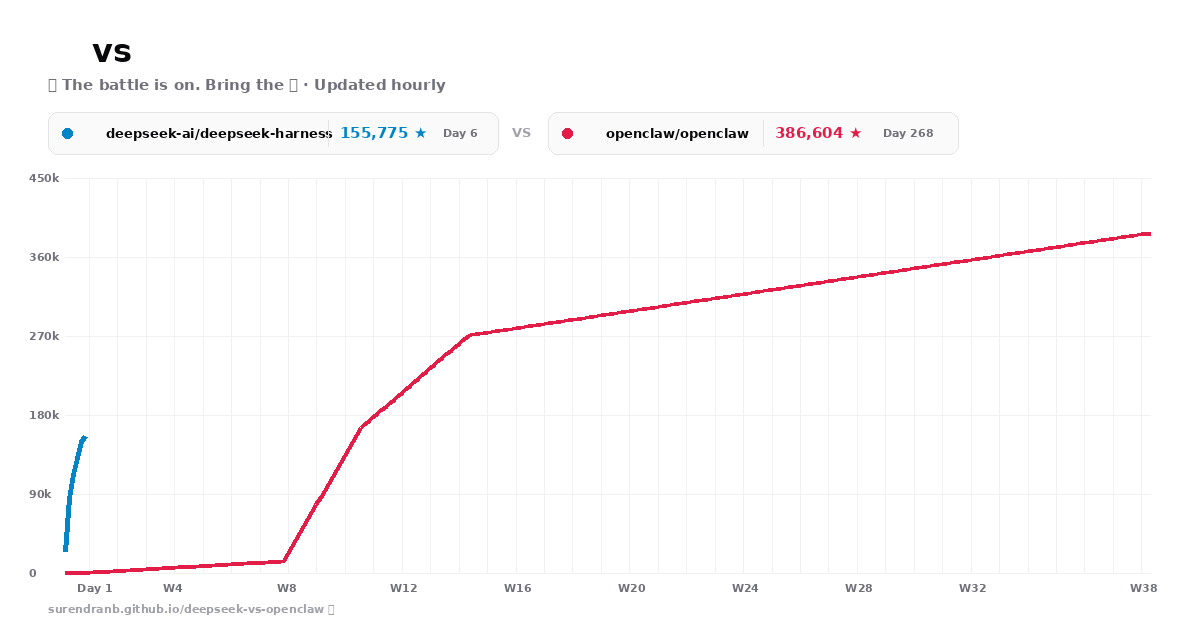
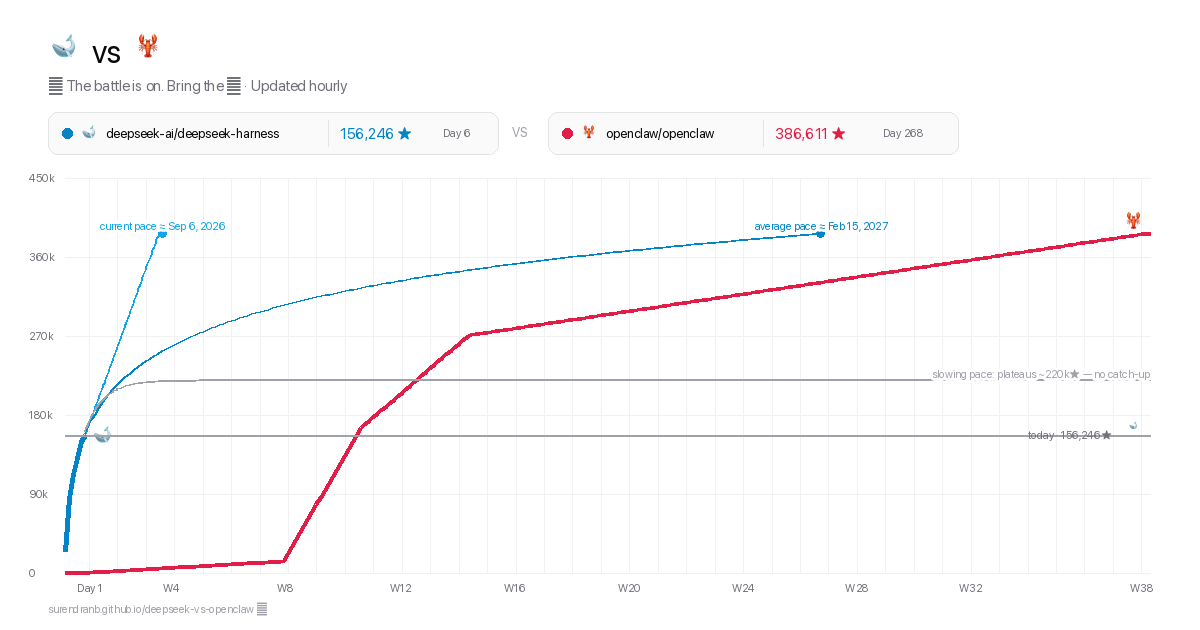
feat: mirror projection fan into og-image.png (shared projection math)

diff --git a/index.html b/index.html
@@ -10,7 +10,7 @@
   <meta property="og:type" content="website">
   <meta property="og:url" content="https://surendranb.github.io/deepseek-vs-openclaw/">
   <meta property="og:title" content="🐋 vs 🦞 · The Battle for GitHub's Fastest-Growing Repo">
-  <meta property="og:description" content="OpenClaw took 9 months to hit 386,604 stars. DeepSeek Harness crossed 155,775 ★ in just 6 days. Watch the race live 🍿">
+  <meta property="og:description" content="OpenClaw took 9 months to hit 386,611 stars. DeepSeek Harness crossed 156,246 ★ in just 6 days. Watch the race live 🍿">
   <meta property="og:image" content="https://surendranb.github.io/deepseek-vs-openclaw/og-image.png">
   <meta property="og:image:secure_url" content="https://surendranb.github.io/deepseek-vs-openclaw/og-image.png">
   <meta property="og:image:type" content="image/png">
@@ -21,7 +21,7 @@
   <!-- Twitter / X Metadata -->
   <meta name="twitter:card" content="summary_large_image">
   <meta name="twitter:title" content="🐋 vs 🦞 · The Battle for GitHub's Fastest-Growing Repo">
-  <meta name="twitter:description" content="OpenClaw took 9 months to hit 386,604 stars. DeepSeek Harness crossed 155,775 ★ in just 6 days. Watch the race live 🍿">
+  <meta name="twitter:description" content="OpenClaw took 9 months to hit 386,611 stars. DeepSeek Harness crossed 156,246 ★ in just 6 days. Watch the race live 🍿">
   <meta name="twitter:image" content="https://surendranb.github.io/deepseek-vs-openclaw/og-image.png">
 
   <link rel="preconnect" href="https://fonts.googleapis.com">

diff --git a/generate_chart.py b/generate_chart.py
@@ -161,6 +161,22 @@ def generate_og_image(data: dict) -> None:
                 pass
         return 0
 
+    def dashed_line(draw, pts, fill, width, dash=(4, 4)):
+        for (x1, y1), (x2, y2) in zip(pts, pts[1:]):
+            dx, dy = x2 - x1, y2 - y1
+            length = (dx * dx + dy * dy) ** 0.5
+            if length == 0:
+                continue
+            ux, uy = dx / length, dy / length
+            pos = 0.0
+            on = True
+            while pos < length:
+                seg = dash[0] if on else dash[1]
+                end = min(pos + seg, length)
+                draw.line([(x1 + ux * pos, y1 + uy * pos), (x1 + ux * end, y1 + uy * end)], fill=fill, width=width)
+                pos = end
+                on = not on
+
     # 1. Header Title & Subtitle
     draw_emoji('🐋', 48, 30, 36)
     draw.text((92, 32), 'vs', fill='#09090b', font=font_title)
@@ -234,6 +250,47 @@ def generate_og_image(data: dict) -> None:
     draw_emoji('🐋', dsh_last[0] + 6, dsh_last[1] - 12, 26)
     draw_emoji('🦞', claw_last[0] - 28, claw_last[1] - 24, 26)
 
+    # Whale reference line (today's level)
+    ref_y = cy + ch - (dsh[-1] / max_stars) * ch
+    dashed_line(draw, [(cx, ref_y), (cx + cw, ref_y)], '#a1a1aa', 2, (4, 4))
+    today_lbl = f'today · {dsh[-1]:,}★'
+    lbl_w = draw.textlength(today_lbl, font=font_small)
+    draw_emoji('🐋', cx + cw - 22, ref_y - 15, 12)
+    draw.text((cx + cw - 22 - 12 - lbl_w - 4, ref_y - 8), today_lbl, fill='#71717a', font=font_small)
+
+    # Projection fan: current / average / slowing pace (same math as chart.svg)
+    fan = projection(dsh, claw, data["repositories"]["deepseek_harness"]["created_at"])
+    best_slope, best_cross = fan["best_slope"], fan["best_cross"]
+    log_a, log_b = fan["log_a"], fan["log_b"]
+    exp_cross, sat_cap, sat_k, sat_cross = fan["exp_cross"], fan["sat_cap"], fan["sat_k"], fan["sat_cross"]
+    cross_date = fan["cross_date"]
+
+    def fan_pt(day_1based: int, val: float):
+        x = cx + ((day_1based - 1) / (max_days - 1)) * cw
+        y = cy + ch - (val / max_stars) * ch
+        return (min(x, cx + cw), y)
+
+    def draw_fan_label(x, y, text, color):
+        draw.text((x, y), text, fill=color, font=font_small, anchor='mm',
+                  stroke_width=3, stroke_fill=(255, 255, 255, 255))
+
+    red_y = cy + ch - (claw_stars / max_stars) * ch
+    dashed_line(draw, [fan_pt(d, dsh[-1] + best_slope * (d - len(dsh))) for d in range(len(dsh), int(math.ceil(best_cross)) + 1)], '#0ea5e9', 2, (2, 3))
+    bx, by = fan_pt(int(math.ceil(best_cross)), claw_stars)
+    draw.ellipse([bx - 4, by - 4, bx + 4, by + 4], fill='#0ea5e9')
+    draw_fan_label(bx, by - 8, f'current pace ≈ {cross_date(best_cross)}', '#0ea5e9')
+
+    dashed_line(draw, [fan_pt(d, log_a + log_b * math.log(d)) for d in range(len(dsh), int(math.ceil(exp_cross)) + 1)], '#0284c7', 2, (7, 5))
+    lx, ly = fan_pt(int(math.ceil(exp_cross)), claw_stars)
+    draw.ellipse([lx - 4, ly - 4, lx + 4, ly + 4], fill='#0284c7')
+    draw_fan_label(lx, ly - 8, f'average pace ≈ {cross_date(exp_cross)}', '#0284c7')
+
+    sat_y = cy + ch - (sat_cap / max_stars) * ch
+    dashed_line(draw, [fan_pt(d, sat_cap * (1 - math.exp(-sat_k * d))) for d in range(len(dsh), max_days + 1)], '#a1a1aa', 2, (4, 4))
+    sat_lbl = f'slowing pace ≈ {cross_date(sat_cross)}' if sat_cross else f'slowing pace: plateaus ~{sat_cap // 1000}k★ — no catch-up'
+    draw.text((cx + cw, sat_y - 6), sat_lbl, fill='#a1a1aa', font=font_small, anchor='rm',
+              stroke_width=3, stroke_fill=(255, 255, 255, 255))
+
     # Watermark
     draw.text((48, 602), 'surendranb.github.io/deepseek-vs-openclaw 🍿', fill='#a1a1aa', font=font_small)
 
@@ -269,14 +326,51 @@ def update_html_meta(data: dict) -> None:
     print(f"[SUCCESS] Updated {HTML_PATH} dynamic social metadata tags")
 
 
+def projection(dsh: list[int], claw: list[int], created: str) -> dict:
+    """Shared fan math: current pace (linear, last 2 deltas), average pace (log fit), slowing pace (saturation)."""
+    days = len(dsh)
+    red_target = claw[-1]
+
+    def ls_fit(xs: list[float], ys: list[float]) -> tuple[float, float]:
+        n = len(xs)
+        mx, my = sum(xs) / n, sum(ys) / n
+        b = sum((x - mx) * (y - my) for x, y in zip(xs, ys)) / sum((x - mx) ** 2 for x in xs)
+        return my - b * mx, b
+
+    best_slope = (dsh[-1] - dsh[-3]) / 2.0
+    best_cross = days + (red_target - dsh[-1]) / best_slope
+
+    log_a, log_b = ls_fit([math.log(d) for d in range(2, days + 1)], dsh[1:])
+    exp_cross = math.exp((red_target - log_a) / log_b)
+
+    best_sat = None
+    for cap in range(150000, 600000, 5000):
+        for k in [x / 100 for x in range(3, 80)]:
+            ss = sum((y - cap * (1 - math.exp(-k * d))) ** 2 for d, y in zip(range(1, days + 1), dsh))
+            if best_sat is None or ss < best_sat[0]:
+                best_sat = (ss, cap, k)
+    _, sat_cap, sat_k = best_sat
+    sat_cross = -math.log(1 - red_target / sat_cap) / sat_k if sat_cap > red_target else None
+
+    def cross_date(cross: float) -> str:
+        return (date.fromisoformat(created) + timedelta(days=round(cross))).strftime("%b %-d, %Y")
+
+    return dict(best_slope=best_slope, best_cross=best_cross, log_a=log_a, log_b=log_b,
+                exp_cross=exp_cross, sat_cap=sat_cap, sat_k=sat_k, sat_cross=sat_cross,
+                cross_date=cross_date)
+
+
 def build_svg(data: dict) -> None:
     """Generate high-contrast SVG chart with weekly vertical grid lines."""
     dsh = data["repositories"]["deepseek_harness"]["daily_stars"]
     claw = data["repositories"]["openclaw"]["daily_stars"]
     created = data["repositories"]["deepseek_harness"]["created_at"]
 
-    def cross_date(cross: float) -> str:
-        return (date.fromisoformat(created) + timedelta(days=round(cross))).strftime("%b %-d, %Y")
+    fan = projection(dsh, claw, created)
+    best_slope, best_cross = fan["best_slope"], fan["best_cross"]
+    log_a, log_b = fan["log_a"], fan["log_b"]
+    exp_cross, sat_cap, sat_k, sat_cross = fan["exp_cross"], fan["sat_cap"], fan["sat_k"], fan["sat_cross"]
+    cross_date = fan["cross_date"]
 
     max_days = max(len(dsh), len(claw))
     max_stars = 450000
@@ -302,29 +396,8 @@ def build_svg(data: dict) -> None:
         pts = [f"{x_coord(d - 1):.1f},{y_coord(func(d)):.1f}" for d in range(from_day, to_day + 1)]
         return "M " + " L ".join(pts)
 
-    def ls_fit(xs: list[float], ys: list[float]) -> tuple[float, float]:
-        n = len(xs)
-        mx, my = sum(xs) / n, sum(ys) / n
-        b = sum((x - mx) * (y - my) for x, y in zip(xs, ys)) / sum((x - mx) ** 2 for x in xs)
-        return my - b * mx, b
-
     days = len(dsh)
     red_target = claw[-1]
-
-    best_slope = (dsh[-1] - dsh[-3]) / 2.0
-    best_cross = days + (red_target - dsh[-1]) / best_slope
-
-    log_a, log_b = ls_fit([math.log(d) for d in range(2, days + 1)], dsh[1:])
-    exp_cross = math.exp((red_target - log_a) / log_b)
-
-    best_sat = None
-    for cap in range(150000, 600000, 5000):
-        for k in [x / 100 for x in range(3, 80)]:
-            ss = sum((y - cap * (1 - math.exp(-k * d))) ** 2 for d, y in zip(range(1, days + 1), dsh))
-            if best_sat is None or ss < best_sat[0]:
-                best_sat = (ss, cap, k)
-    _, sat_cap, sat_k = best_sat
-    sat_cross = -math.log(1 - red_target / sat_cap) / sat_k if sat_cap > red_target else None
 
     dsh_path = points_to_path(dsh)
     claw_path = points_to_path(claw)
